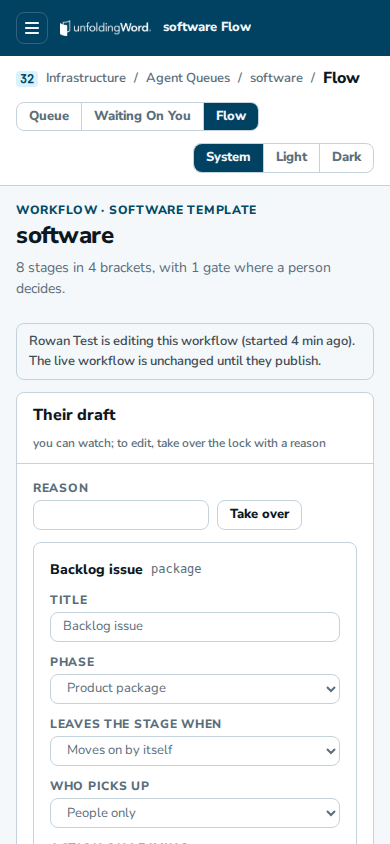
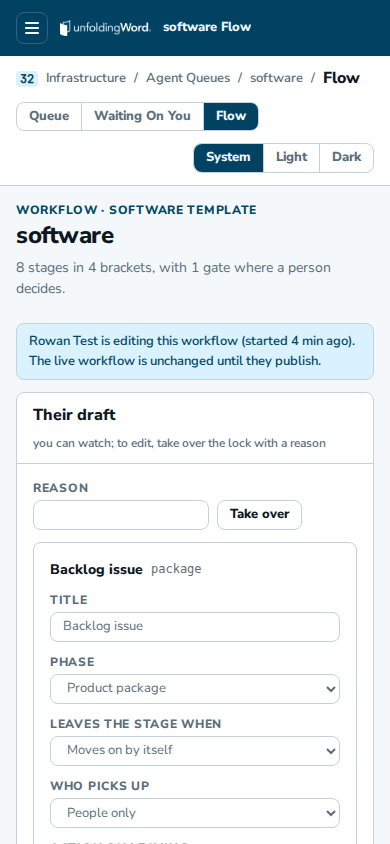
fix(ui): the editing lock notice uses the shared Note (#103)

Changed region(s): [[0.0308, 0.3697, 0.9538, 0.4621]]

diff --git a/apps/uw-app/views/parts/draft-editor.tsx b/apps/uw-app/views/parts/draft-editor.tsx
@@ -4,6 +4,7 @@ import type { WorkflowDraftView } from '@uw/harness';
 import { Card } from '@uw/ui/components/card.tsx';
 import { CommandForm, commandButton } from '@uw/ui/components/command-form.tsx';
 import { TextField } from '@uw/ui/components/field.tsx';
+import { Note } from '@uw/ui/components/note.tsx';
 import { DraftRow } from './draft-row.tsx';
 import { cleanCheck, problemCount } from './draft-words.ts';
 
@@ -128,13 +129,9 @@ function LockBar(props: { readonly draft: WorkflowDraftView; readonly at: Date }
     ? `${name} is editing this workflow (started ${since(draft, props.at)} ago). The live workflow is unchanged until they publish.`
     : `${name} started a draft ${since(draft, props.at)} ago and stopped editing, so their lock has lapsed. The live workflow is unchanged.`;
   return (
-    <p
-      data-lock-bar
-      role="note"
-      class="m-0 rounded-md border border-line bg-raised px-3 py-2 text-sm font-semibold text-text-2"
-    >
-      {words}
-    </p>
+    <div data-lock-bar>
+      <Note>{words}</Note>
+    </div>
   );
 }
 
